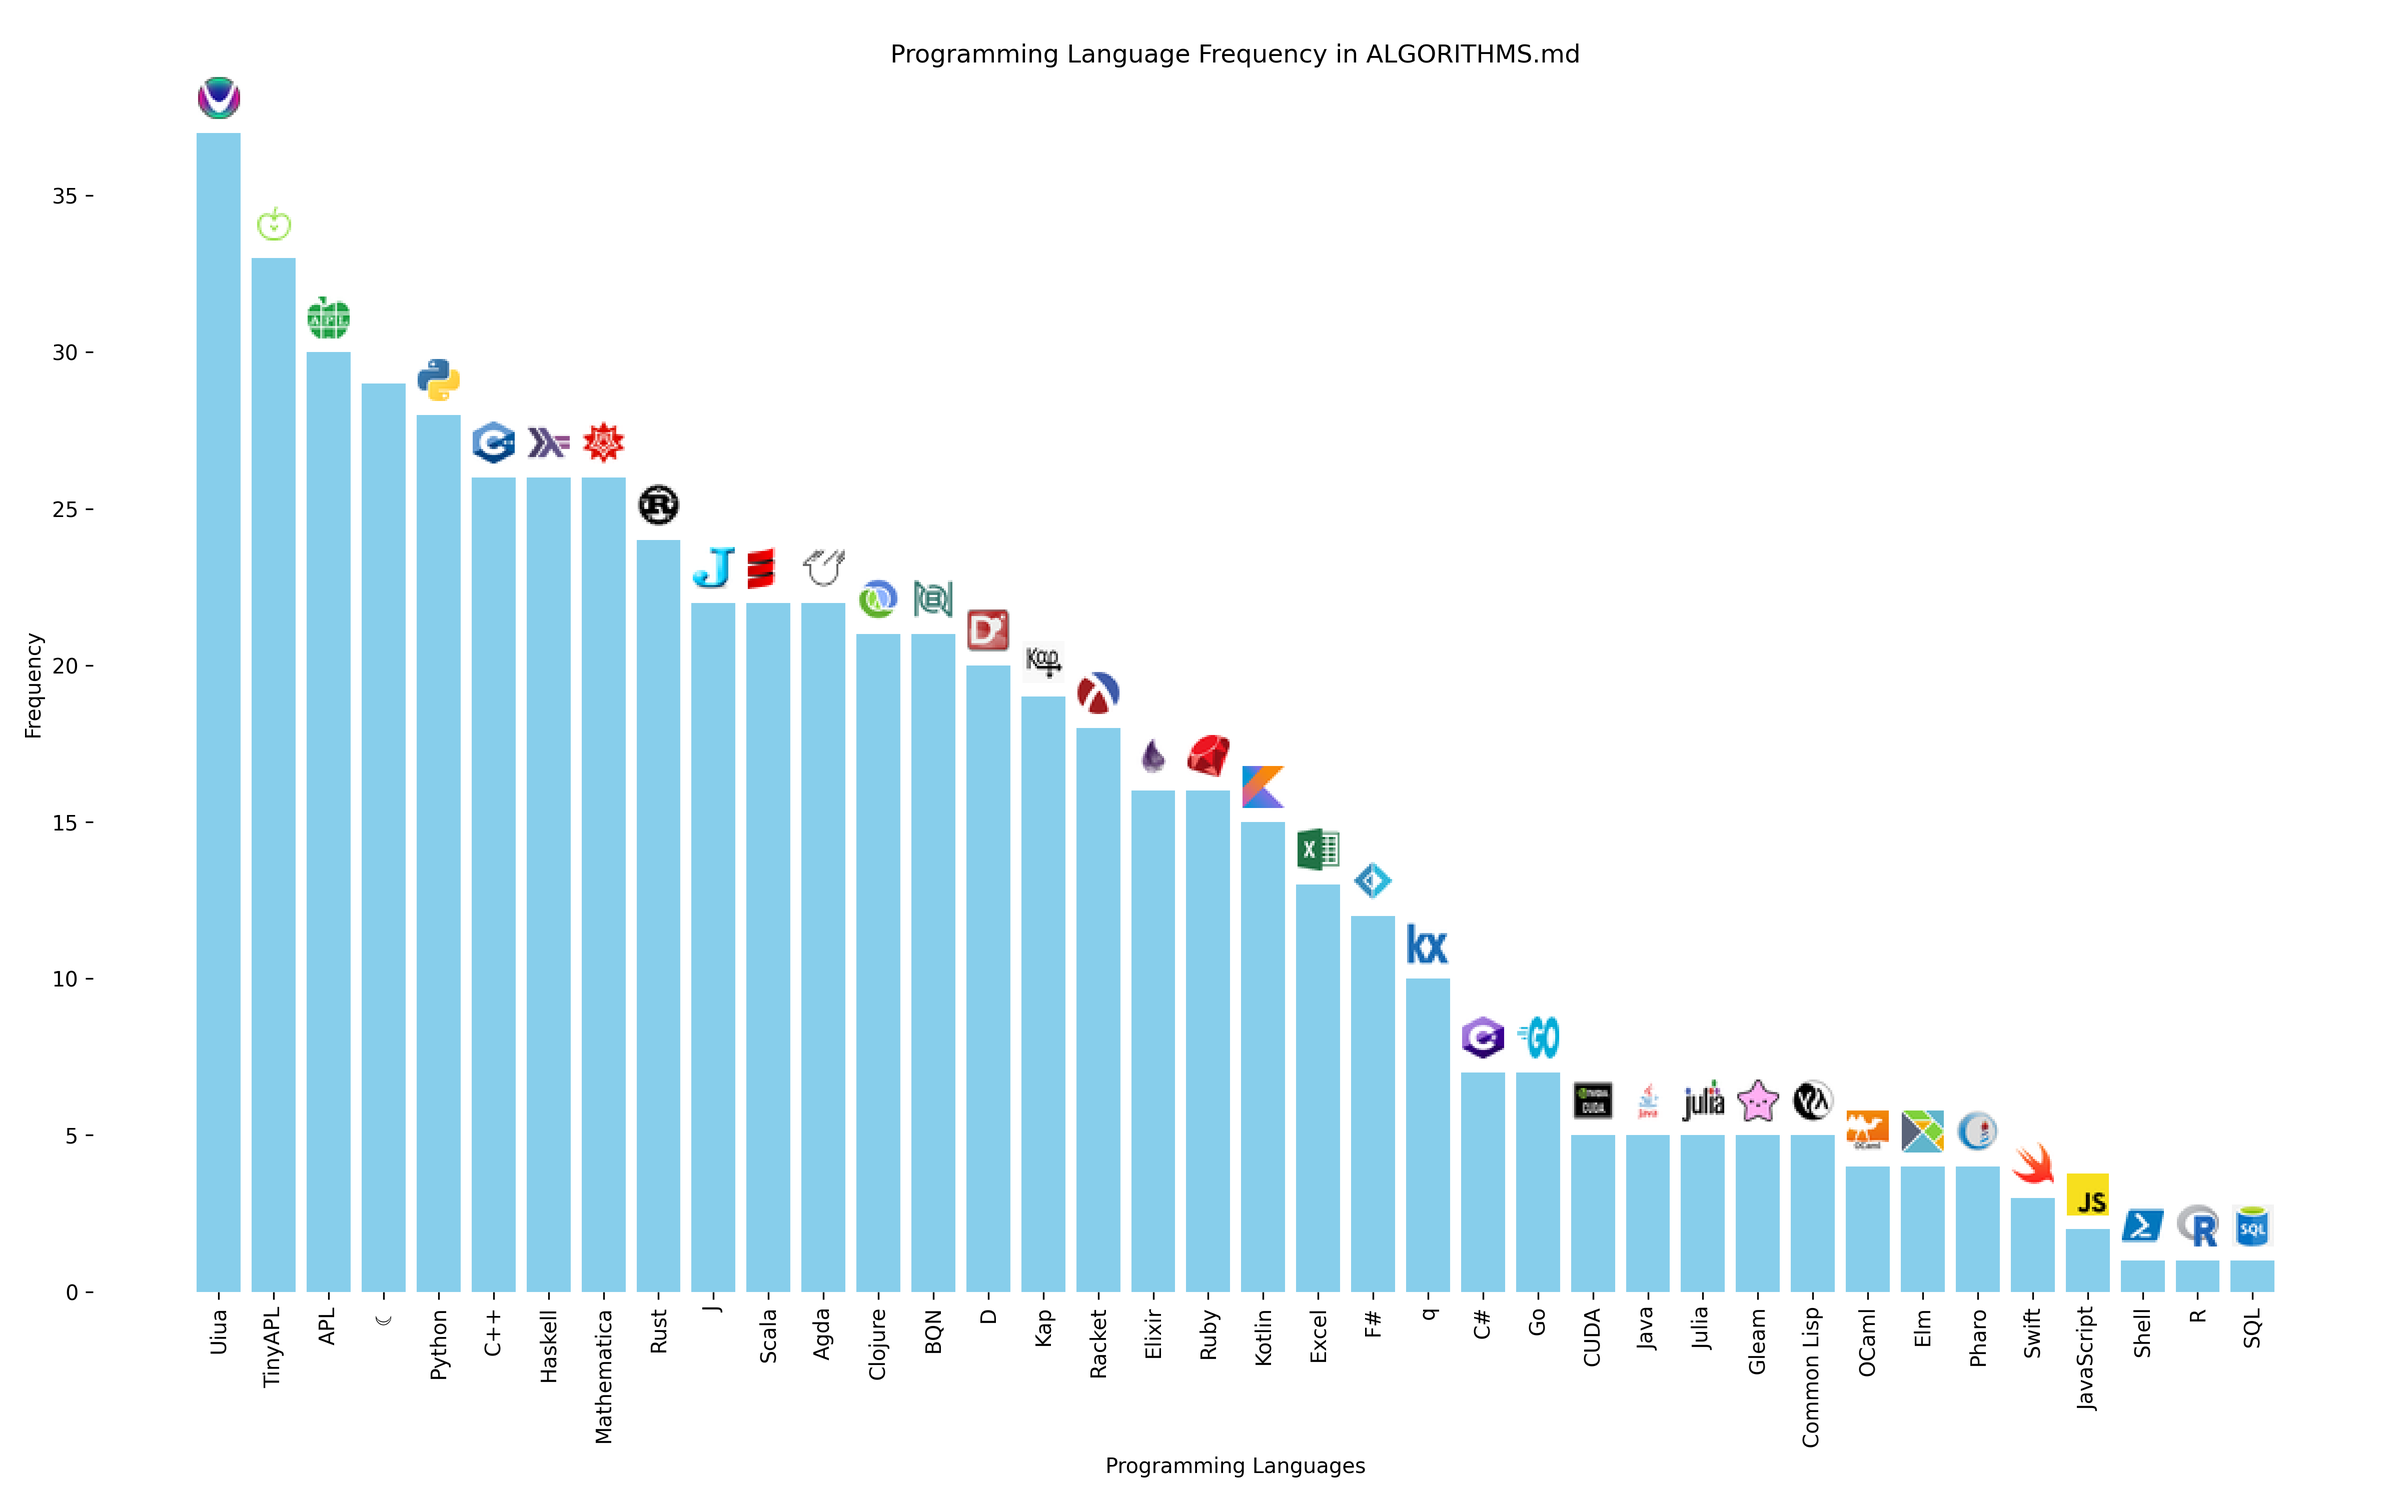
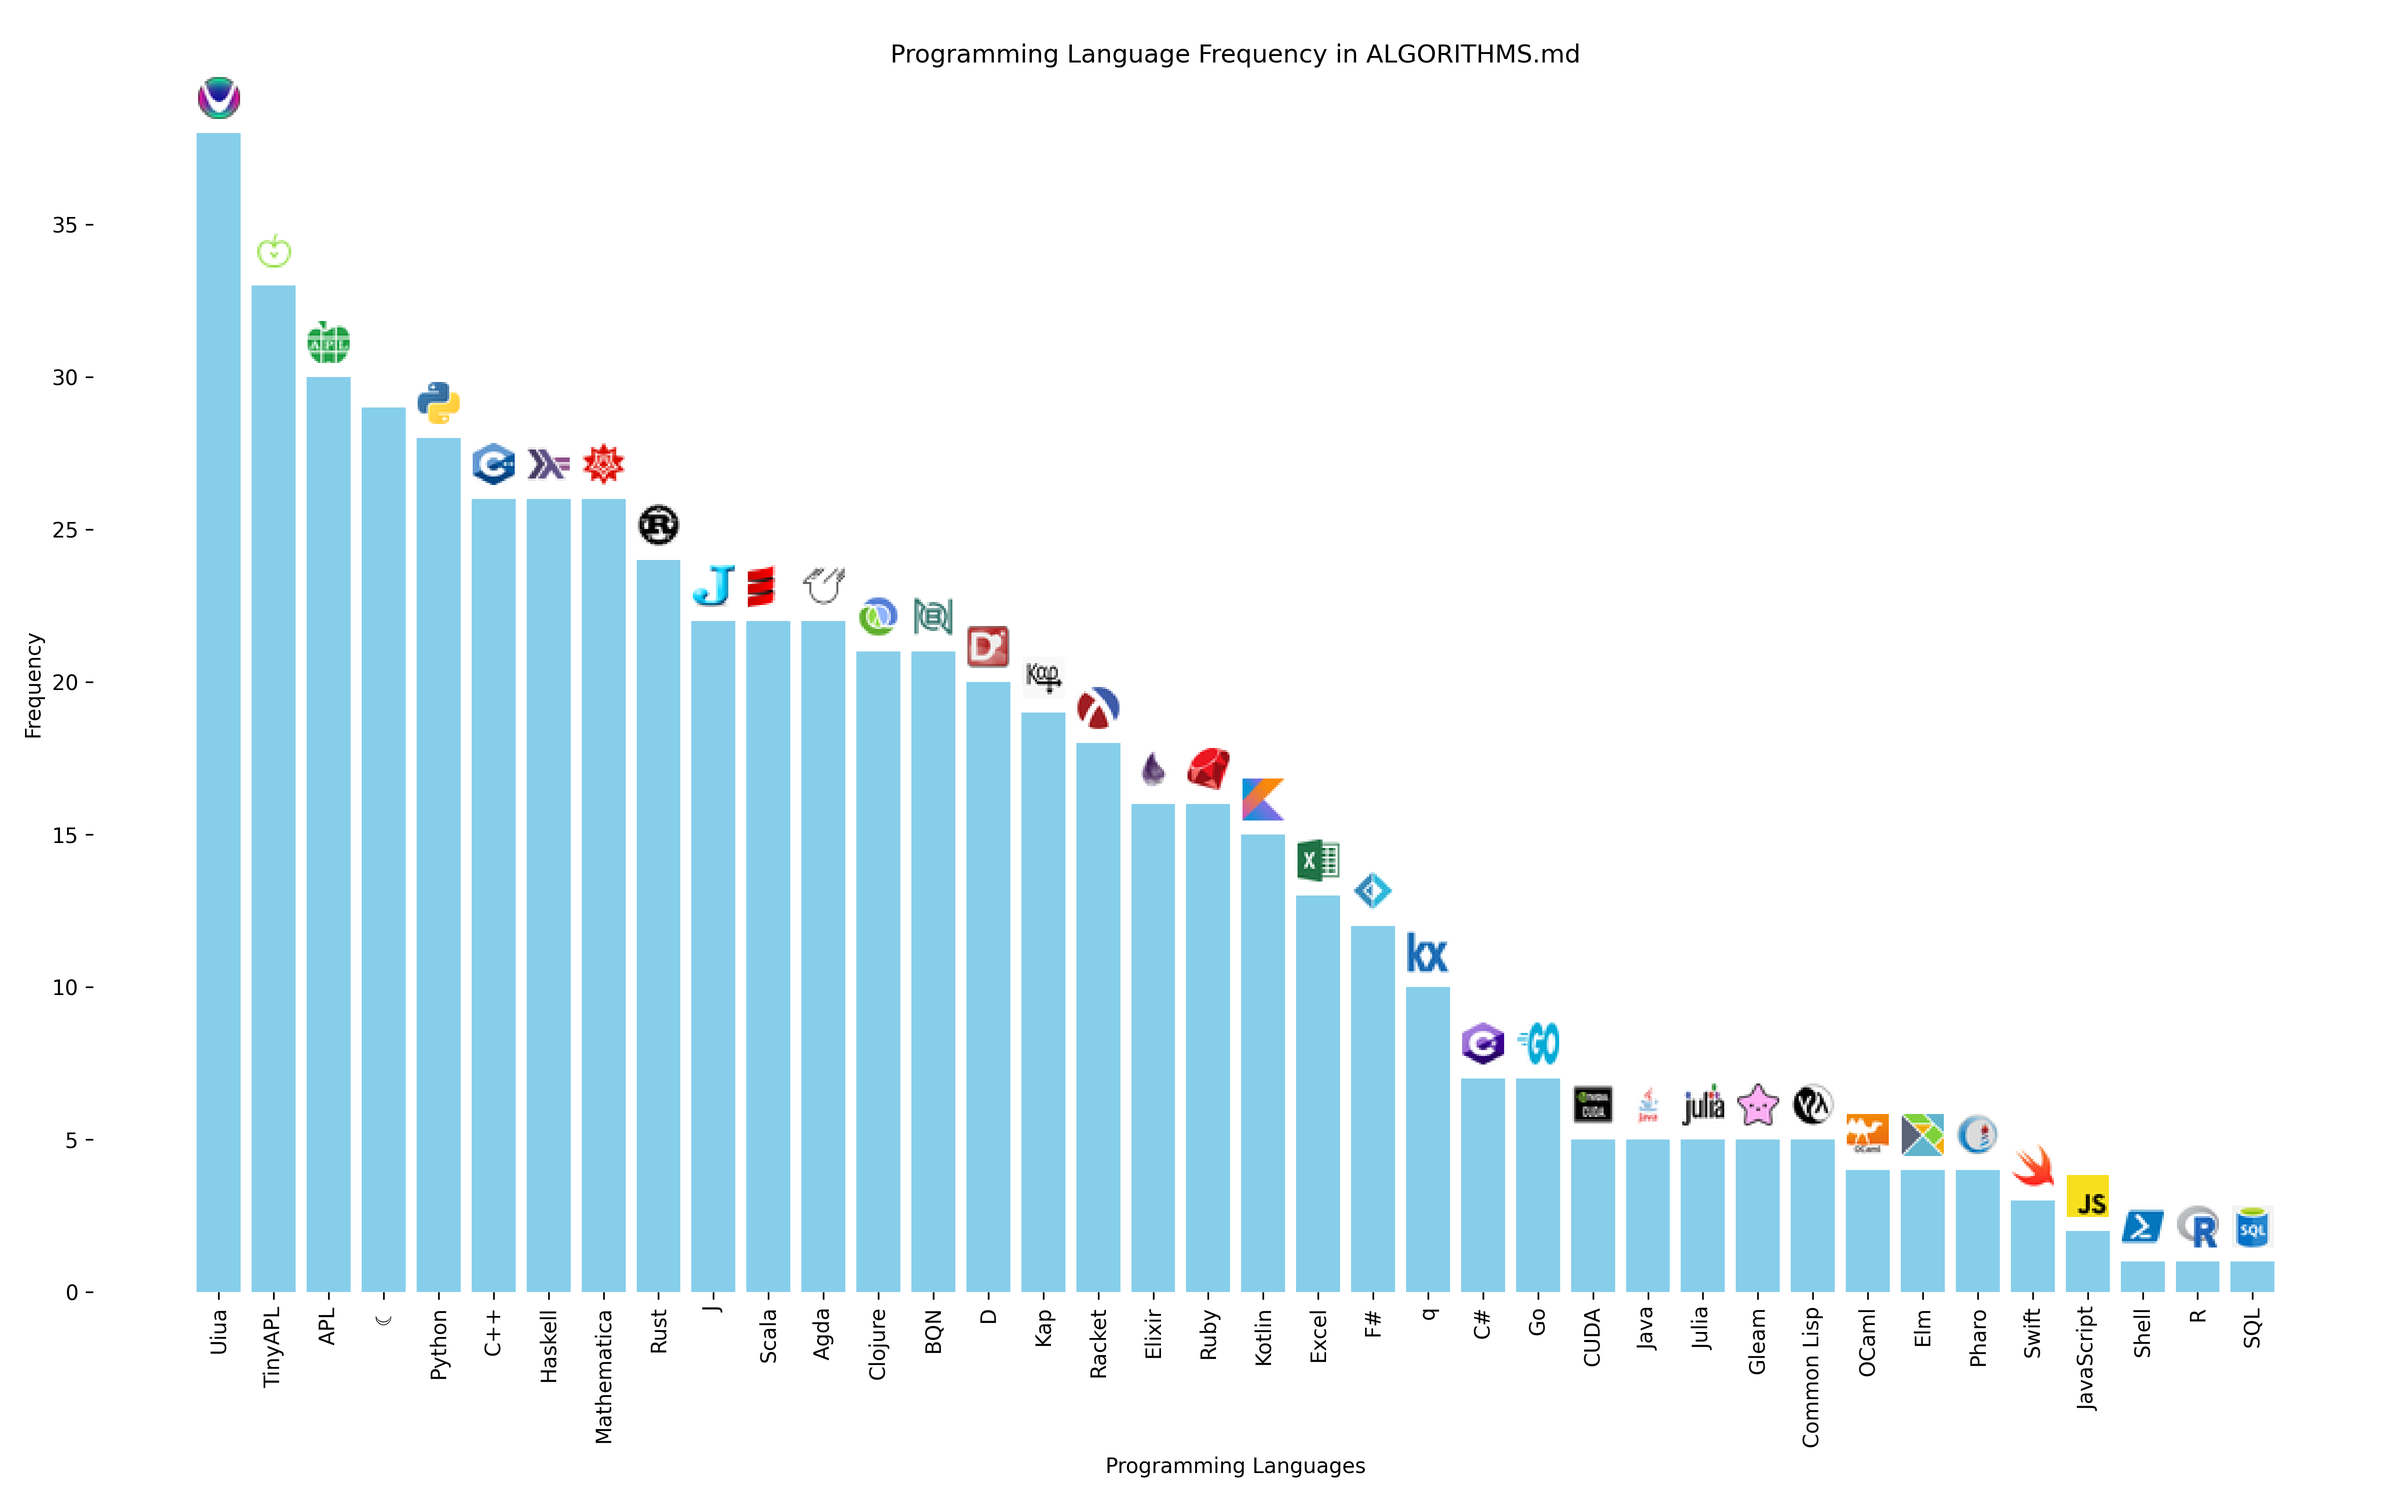
Uiua over

diff --git a/ALGORITHMS.md b/ALGORITHMS.md
@@ -525,6 +525,7 @@
 |     Kap     |          `⍥ (over)`          |  5740  |           `-`           |       |                                        [doc](https://kapdemo.dhsdevelopments.com/reference.html#_over)                                         |
 |      J      |        `&: (appose)`         |  5740  |           `-`           |       |                                            [doc](https://code.jsoftware.com/wiki/Vocabulary/ampco)                                             |
 |     BQN     |          `○ (over)`          |  5740  |           `-`           |       |                                            [doc](https://mlochbaum.github.io/BQN/doc/compose.html)                                             |
+|    Uiua     |          `∩ (both)`          |  5740  |           `-`           |       |                                                    [doc](https://www.uiua.org/docs/both)                                                       |
 |   TinyAPL   |       `⟜ (right hook)`       |  5190  |           `-`           |       |                                         [doc](https://tinyapl.rubenverg.com/docs/primitive/right_hook)                                         |
 |     Kap     |        `∘ (compose)`         |  5190  |           `-`           |       |                                       [doc](https://kapdemo.dhsdevelopments.com/reference.html#_compose)                                       |
 |     BQN     |         `⟜ (after)`          |  5190  |           `-`           |       |                                              [doc](https://mlochbaum.github.io/BQN/doc/hook.html)                                              |
